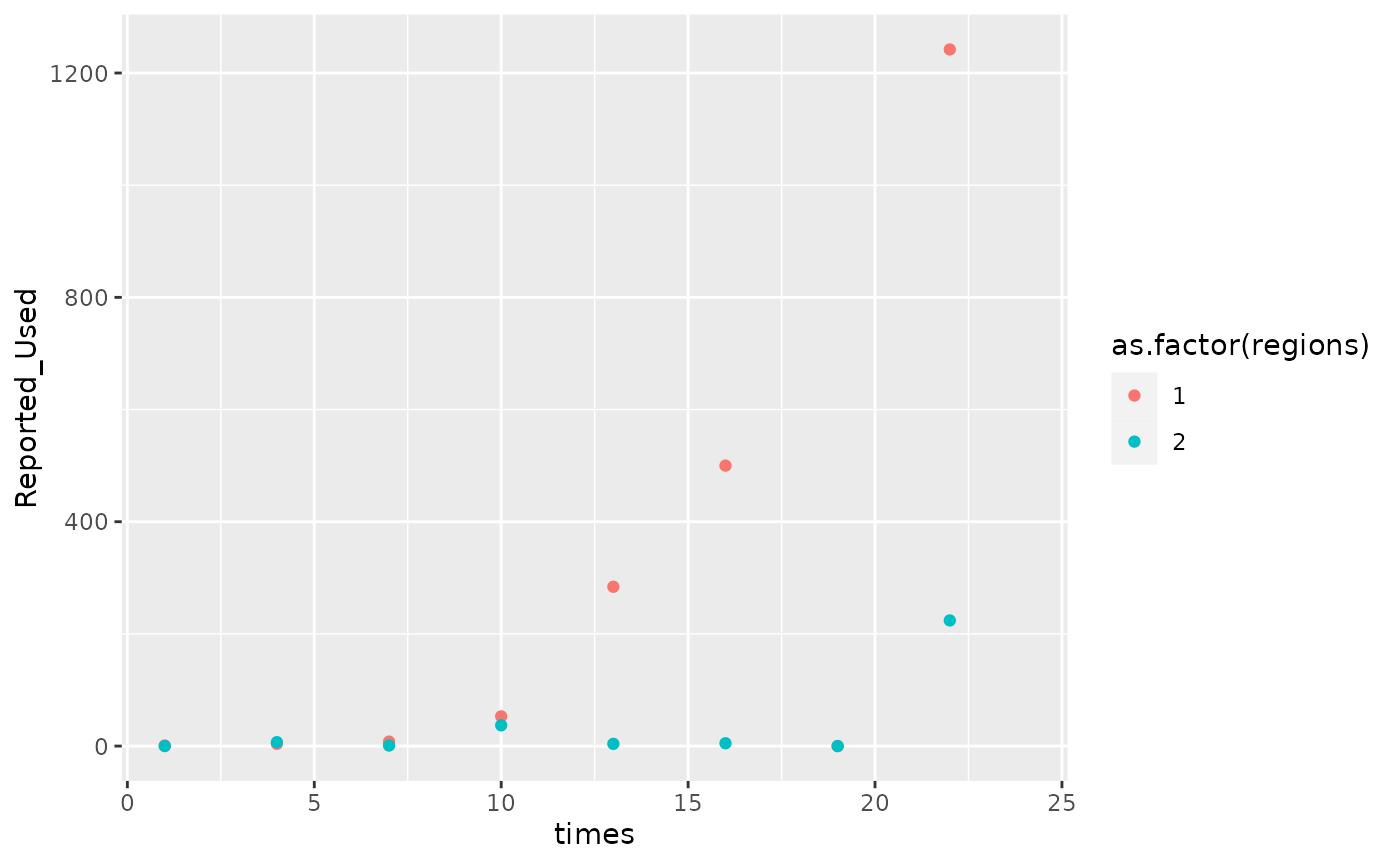
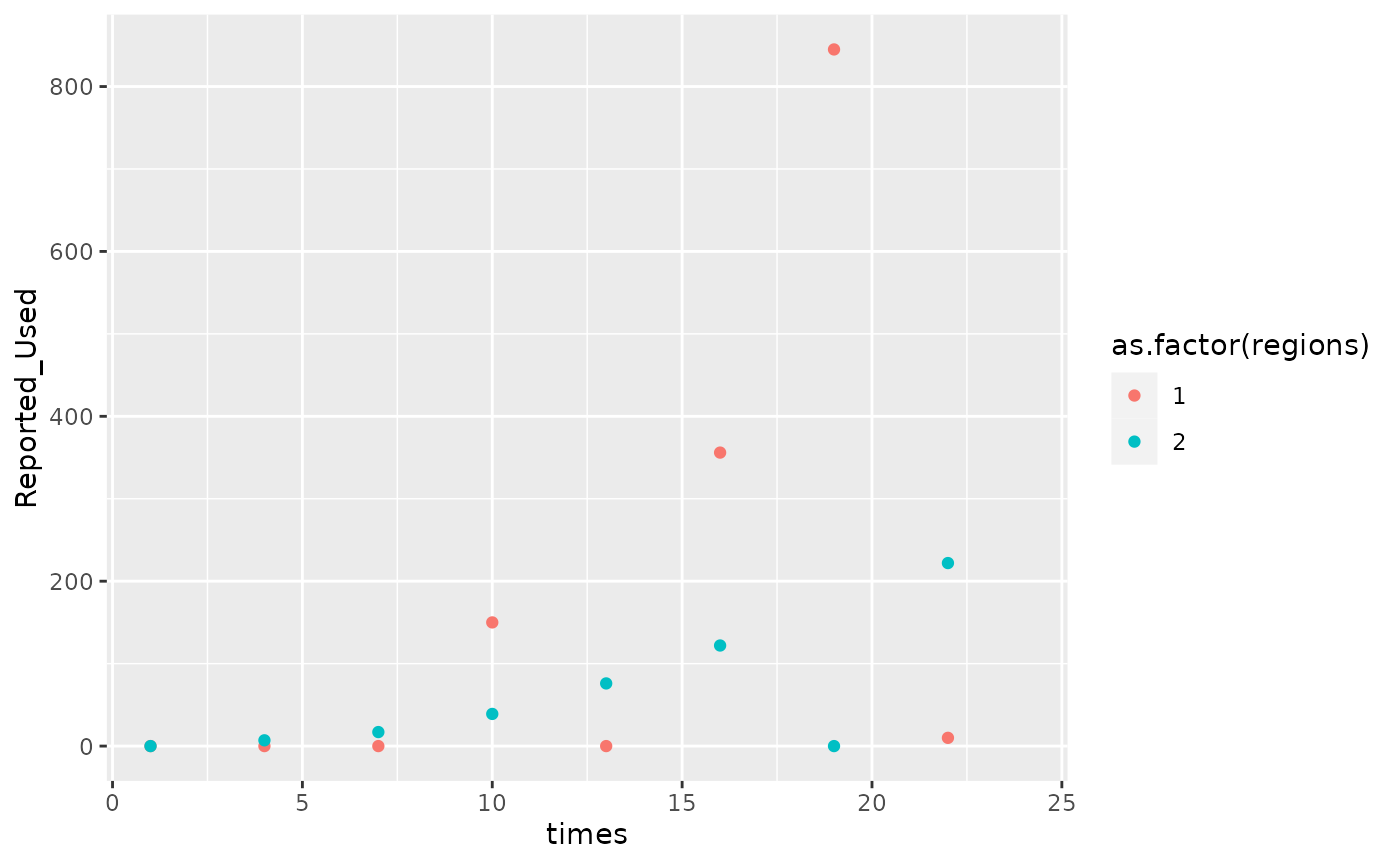
Deploying to gh-pages from @ sempwn/bennu@3d60e01dad95311d0140d820602fc17f2c6bd9ce 🚀

diff --git a/articles/Introduction.html b/articles/Introduction.html
@@ -99,7 +99,7 @@
 <code class="sourceCode R"><span><span class="kw"><a href="https://rdrr.io/r/base/library.html" class="external-link">library</a></span><span class="op">(</span><span class="va"><a href="https://mc-stan.org/rstan/" class="external-link">rstan</a></span><span class="op">)</span></span>
 <span><span class="co">#&gt; Loading required package: StanHeaders</span></span>
 <span><span class="co">#&gt; </span></span>
-<span><span class="co">#&gt; rstan version 2.26.23 (Stan version 2.26.1)</span></span>
+<span><span class="co">#&gt; rstan version 2.32.5 (Stan version 2.32.2)</span></span>
 <span><span class="co">#&gt; For execution on a local, multicore CPU with excess RAM we recommend calling</span></span>
 <span><span class="co">#&gt; options(mc.cores = parallel::detectCores()).</span></span>
 <span><span class="co">#&gt; To avoid recompilation of unchanged Stan programs, we recommend calling</span></span>
@@ -109,7 +109,7 @@
 <span><span class="co">#&gt; rstan_options(threads_per_chain = 1)</span></span>
 <span><span class="kw"><a href="https://rdrr.io/r/base/library.html" class="external-link">library</a></span><span class="op">(</span><span class="va"><a href="https://sempwn.github.io/bennu/">bennu</a></span><span class="op">)</span></span>
 <span><span class="kw"><a href="https://rdrr.io/r/base/library.html" class="external-link">library</a></span><span class="op">(</span><span class="va"><a href="https://mc-stan.org/bayesplot/" class="external-link">bayesplot</a></span><span class="op">)</span></span>
-<span><span class="co">#&gt; This is bayesplot version 1.10.0</span></span>
+<span><span class="co">#&gt; This is bayesplot version 1.11.0</span></span>
 <span><span class="co">#&gt; - Online documentation and vignettes at mc-stan.org/bayesplot</span></span>
 <span><span class="co">#&gt; - bayesplot theme set to bayesplot::theme_default()</span></span>
 <span><span class="co">#&gt;    * Does _not_ affect other ggplot2 plots</span></span>
@@ -127,7 +127,7 @@
 <span><span class="co">#&gt; <span style="color: #555555;">Call `lifecycle::last_lifecycle_warnings()` to see where this warning was</span></span></span>
 <span><span class="co">#&gt; <span style="color: #555555;">generated.</span></span></span>
 <span><span class="co"># note iter should be at least 2000 to generate a reasonable posterior sample</span></span>
-<span><span class="va">fit</span> <span class="op">&lt;-</span> <span class="fu"><a href="../reference/est_naloxone.html">est_naloxone</a></span><span class="op">(</span><span class="va">d</span>,iter<span class="op">=</span><span class="fl">100</span><span class="op">)</span></span>
+<span><span class="va">fit</span> <span class="op">&lt;-</span> <span class="fu"><a href="../reference/est_naloxone.html">est_naloxone</a></span><span class="op">(</span><span class="va">d</span>, iter <span class="op">=</span> <span class="fl">100</span><span class="op">)</span></span>
 <span><span class="co">#&gt; Warning: Specifying the `id_cols` argument by position was deprecated in tidyr 1.3.0.</span></span>
 <span><span class="co">#&gt; <span style="color: #00BBBB;">ℹ</span> Please explicitly name `id_cols`, like `id_cols = regions`.</span></span>
 <span><span class="co">#&gt; <span style="color: #00BBBB;">ℹ</span> The deprecated feature was likely used in the <span style="color: #0000BB;">bennu</span> package.</span></span>
@@ -135,7 +135,7 @@
 <span><span class="co">#&gt; <span style="color: #555555;">This warning is displayed once every 8 hours.</span></span></span>
 <span><span class="co">#&gt; <span style="color: #555555;">Call `lifecycle::last_lifecycle_warnings()` to see where this warning was</span></span></span>
 <span><span class="co">#&gt; <span style="color: #555555;">generated.</span></span></span>
-<span><span class="co">#&gt; Warning: There were 24 divergent transitions after warmup. See</span></span>
+<span><span class="co">#&gt; Warning: There were 28 divergent transitions after warmup. See</span></span>
 <span><span class="co">#&gt; https://mc-stan.org/misc/warnings.html#divergent-transitions-after-warmup</span></span>
 <span><span class="co">#&gt; to find out why this is a problem and how to eliminate them.</span></span>
 <span><span class="co">#&gt; Warning: There were 2 chains where the estimated Bayesian Fraction of Missing Information was low. See</span></span>
@@ -150,13 +150,15 @@
 <span><span class="co">#&gt; Warning: Tail Effective Samples Size (ESS) is too low, indicating posterior variances and tail quantiles may be unreliable.</span></span>
 <span><span class="co">#&gt; Running the chains for more iterations may help. See</span></span>
 <span><span class="co">#&gt; https://mc-stan.org/misc/warnings.html#tail-ess</span></span>
-<span><span class="fu"><a href="https://mc-stan.org/bayesplot/reference/MCMC-scatterplots.html" class="external-link">mcmc_pairs</a></span><span class="op">(</span><span class="va">fit</span>, pars <span class="op">=</span> <span class="fu"><a href="https://rdrr.io/r/base/c.html" class="external-link">c</a></span><span class="op">(</span><span class="st">"sigma"</span>,<span class="st">"mu0"</span>,<span class="st">"zeta"</span><span class="op">)</span>,</span>
-<span>           off_diag_args <span class="op">=</span> <span class="fu"><a href="https://rdrr.io/r/base/list.html" class="external-link">list</a></span><span class="op">(</span>size <span class="op">=</span> <span class="fl">1</span>, alpha <span class="op">=</span> <span class="fl">0.5</span><span class="op">)</span><span class="op">)</span></span></code></pre></div>
+<span><span class="fu"><a href="https://mc-stan.org/bayesplot/reference/MCMC-scatterplots.html" class="external-link">mcmc_pairs</a></span><span class="op">(</span><span class="va">fit</span>,</span>
+<span>  pars <span class="op">=</span> <span class="fu"><a href="https://rdrr.io/r/base/c.html" class="external-link">c</a></span><span class="op">(</span><span class="st">"sigma"</span>, <span class="st">"mu0"</span>, <span class="st">"zeta"</span><span class="op">)</span>,</span>
+<span>  off_diag_args <span class="op">=</span> <span class="fu"><a href="https://rdrr.io/r/base/list.html" class="external-link">list</a></span><span class="op">(</span>size <span class="op">=</span> <span class="fl">1</span>, alpha <span class="op">=</span> <span class="fl">0.5</span><span class="op">)</span></span>
+<span><span class="op">)</span></span></code></pre></div>
 <p><img src="Introduction_files/figure-html/run%20example%20model-1.png" width="700"></p>
 <p>Return median and 90th percentiles for posterior samples</p>
 <div class="sourceCode" id="cb2"><pre class="downlit sourceCode r">
 <code class="sourceCode R"><span><span class="kw"><a href="https://rdrr.io/r/base/library.html" class="external-link">library</a></span><span class="op">(</span><span class="va"><a href="https://mc-stan.org/posterior/" class="external-link">posterior</a></span><span class="op">)</span></span>
-<span><span class="co">#&gt; This is posterior version 1.4.1</span></span>
+<span><span class="co">#&gt; This is posterior version 1.5.0</span></span>
 <span><span class="co">#&gt; </span></span>
 <span><span class="co">#&gt; Attaching package: 'posterior'</span></span>
 <span><span class="co">#&gt; The following object is masked from 'package:bayesplot':</span></span>
@@ -174,33 +176,43 @@
 <span></span>
 <span><span class="fu"><a href="https://mc-stan.org/posterior/reference/draws_summary.html" class="external-link">summarise_draws</a></span><span class="op">(</span><span class="va">fit</span>, <span class="fu"><a href="https://mc-stan.org/posterior/reference/draws_summary.html" class="external-link">default_summary_measures</a></span><span class="op">(</span><span class="op">)</span><span class="op">)</span></span>
 <span><span class="co">#&gt; <span style="color: #949494;"># A tibble: 462 × 7</span></span></span>
-<span><span class="co">#&gt;    variable  mean median    sd   mad    q5    q95</span></span>
-<span><span class="co">#&gt;    <span style="color: #949494; font-style: italic;">&lt;chr&gt;</span>    <span style="color: #949494; font-style: italic;">&lt;num&gt;</span>  <span style="color: #949494; font-style: italic;">&lt;num&gt;</span> <span style="color: #949494; font-style: italic;">&lt;num&gt;</span> <span style="color: #949494; font-style: italic;">&lt;num&gt;</span> <span style="color: #949494; font-style: italic;">&lt;num&gt;</span>  <span style="color: #949494; font-style: italic;">&lt;num&gt;</span></span></span>
-<span><span class="co">#&gt; <span style="color: #BCBCBC;"> 1</span> logp[1]  -<span style="color: #BB0000;">1.37</span>  -<span style="color: #BB0000;">1.40</span> 0.503 0.526 -<span style="color: #BB0000;">2.20</span> -<span style="color: #BB0000;">0.481</span></span></span>
-<span><span class="co">#&gt; <span style="color: #BCBCBC;"> 2</span> logp[2]  -<span style="color: #BB0000;">1.37</span>  -<span style="color: #BB0000;">1.37</span> 0.434 0.429 -<span style="color: #BB0000;">2.03</span> -<span style="color: #BB0000;">0.692</span></span></span>
-<span><span class="co">#&gt; <span style="color: #BCBCBC;"> 3</span> logp[3]  -<span style="color: #BB0000;">1.38</span>  -<span style="color: #BB0000;">1.34</span> 0.322 0.326 -<span style="color: #BB0000;">1.88</span> -<span style="color: #BB0000;">0.837</span></span></span>
-<span><span class="co">#&gt; <span style="color: #BCBCBC;"> 4</span> logp[4]  -<span style="color: #BB0000;">1.43</span>  -<span style="color: #BB0000;">1.43</span> 0.247 0.249 -<span style="color: #BB0000;">1.89</span> -<span style="color: #BB0000;">1.06</span> </span></span>
-<span><span class="co">#&gt; <span style="color: #BCBCBC;"> 5</span> logp[5]  -<span style="color: #BB0000;">1.26</span>  -<span style="color: #BB0000;">1.26</span> 0.204 0.212 -<span style="color: #BB0000;">1.58</span> -<span style="color: #BB0000;">0.880</span></span></span>
-<span><span class="co">#&gt; <span style="color: #BCBCBC;"> 6</span> logp[6]  -<span style="color: #BB0000;">1.30</span>  -<span style="color: #BB0000;">1.31</span> 0.274 0.207 -<span style="color: #BB0000;">1.74</span> -<span style="color: #BB0000;">0.846</span></span></span>
-<span><span class="co">#&gt; <span style="color: #BCBCBC;"> 7</span> logp[7]  -<span style="color: #BB0000;">1.36</span>  -<span style="color: #BB0000;">1.34</span> 0.175 0.194 -<span style="color: #BB0000;">1.63</span> -<span style="color: #BB0000;">1.08</span> </span></span>
-<span><span class="co">#&gt; <span style="color: #BCBCBC;"> 8</span> logp[8]  -<span style="color: #BB0000;">1.37</span>  -<span style="color: #BB0000;">1.32</span> 0.260 0.217 -<span style="color: #BB0000;">1.83</span> -<span style="color: #BB0000;">1.03</span> </span></span>
-<span><span class="co">#&gt; <span style="color: #BCBCBC;"> 9</span> logp[9]  -<span style="color: #BB0000;">1.43</span>  -<span style="color: #BB0000;">1.43</span> 0.177 0.177 -<span style="color: #BB0000;">1.76</span> -<span style="color: #BB0000;">1.17</span> </span></span>
-<span><span class="co">#&gt; <span style="color: #BCBCBC;">10</span> logp[10] -<span style="color: #BB0000;">1.22</span>  -<span style="color: #BB0000;">1.22</span> 0.301 0.241 -<span style="color: #BB0000;">1.70</span> -<span style="color: #BB0000;">0.744</span></span></span>
+<span><span class="co">#&gt;    variable  mean median    sd    mad    q5    q95</span></span>
+<span><span class="co">#&gt;    <span style="color: #949494; font-style: italic;">&lt;chr&gt;</span>    <span style="color: #949494; font-style: italic;">&lt;dbl&gt;</span>  <span style="color: #949494; font-style: italic;">&lt;dbl&gt;</span> <span style="color: #949494; font-style: italic;">&lt;dbl&gt;</span>  <span style="color: #949494; font-style: italic;">&lt;dbl&gt;</span> <span style="color: #949494; font-style: italic;">&lt;dbl&gt;</span>  <span style="color: #949494; font-style: italic;">&lt;dbl&gt;</span></span></span>
+<span><span class="co">#&gt; <span style="color: #BCBCBC;"> 1</span> logp[1]  -<span style="color: #BB0000;">2.07</span>  -<span style="color: #BB0000;">2.07</span> 0.572 0.626  -<span style="color: #BB0000;">3.05</span> -<span style="color: #BB0000;">1.14</span> </span></span>
+<span><span class="co">#&gt; <span style="color: #BCBCBC;"> 2</span> logp[2]  -<span style="color: #BB0000;">1.99</span>  -<span style="color: #BB0000;">1.94</span> 0.516 0.526  -<span style="color: #BB0000;">2.91</span> -<span style="color: #BB0000;">1.18</span> </span></span>
+<span><span class="co">#&gt; <span style="color: #BCBCBC;"> 3</span> logp[3]  -<span style="color: #BB0000;">1.80</span>  -<span style="color: #BB0000;">1.78</span> 0.391 0.414  -<span style="color: #BB0000;">2.52</span> -<span style="color: #BB0000;">1.18</span> </span></span>
+<span><span class="co">#&gt; <span style="color: #BCBCBC;"> 4</span> logp[4]  -<span style="color: #BB0000;">1.77</span>  -<span style="color: #BB0000;">1.81</span> 0.386 0.351  -<span style="color: #BB0000;">2.41</span> -<span style="color: #BB0000;">1.18</span> </span></span>
+<span><span class="co">#&gt; <span style="color: #BCBCBC;"> 5</span> logp[5]  -<span style="color: #BB0000;">1.71</span>  -<span style="color: #BB0000;">1.72</span> 0.199 0.233  -<span style="color: #BB0000;">2.03</span> -<span style="color: #BB0000;">1.43</span> </span></span>
+<span><span class="co">#&gt; <span style="color: #BCBCBC;"> 6</span> logp[6]  -<span style="color: #BB0000;">1.34</span>  -<span style="color: #BB0000;">1.36</span> 0.144 0.151  -<span style="color: #BB0000;">1.54</span> -<span style="color: #BB0000;">1.11</span> </span></span>
+<span><span class="co">#&gt; <span style="color: #BCBCBC;"> 7</span> logp[7]  -<span style="color: #BB0000;">1.42</span>  -<span style="color: #BB0000;">1.40</span> 0.156 0.141  -<span style="color: #BB0000;">1.67</span> -<span style="color: #BB0000;">1.16</span> </span></span>
+<span><span class="co">#&gt; <span style="color: #BCBCBC;"> 8</span> logp[8]  -<span style="color: #BB0000;">1.32</span>  -<span style="color: #BB0000;">1.35</span> 0.316 0.267  -<span style="color: #BB0000;">1.80</span> -<span style="color: #BB0000;">0.715</span></span></span>
+<span><span class="co">#&gt; <span style="color: #BCBCBC;"> 9</span> logp[9]  -<span style="color: #BB0000;">1.14</span>  -<span style="color: #BB0000;">1.15</span> 0.112 0.091<span style="text-decoration: underline;">5</span> -<span style="color: #BB0000;">1.33</span> -<span style="color: #BB0000;">0.964</span></span></span>
+<span><span class="co">#&gt; <span style="color: #BCBCBC;">10</span> logp[10] -<span style="color: #BB0000;">1.10</span>  -<span style="color: #BB0000;">1.10</span> 0.111 0.118  -<span style="color: #BB0000;">1.26</span> -<span style="color: #BB0000;">0.921</span></span></span>
 <span><span class="co">#&gt; <span style="color: #949494;"># ℹ 452 more rows</span></span></span></code></pre></div>
-<p>We can compare two different model fits of the probability of prior
-kit use to simulated data using the <code>plot_kit_use</code>
-function</p>
+<p>We can plot the posterior predictive distribution of the probability
+of prior kit use and compare to simulated data using the
+<code>plot_kit_use</code> function</p>
 <div class="sourceCode" id="cb3"><pre class="downlit sourceCode r">
-<code class="sourceCode R"><span><span class="fu"><a href="../reference/plot_kit_use.html">plot_kit_use</a></span><span class="op">(</span>model <span class="op">=</span> <span class="va">fit</span>,data<span class="op">=</span><span class="va">d</span><span class="op">)</span></span></code></pre></div>
+<code class="sourceCode R"><span><span class="fu"><a href="../reference/plot_kit_use.html">plot_kit_use</a></span><span class="op">(</span>model <span class="op">=</span> <span class="va">fit</span>, data <span class="op">=</span> <span class="va">d</span><span class="op">)</span></span></code></pre></div>
 <p><img src="Introduction_files/figure-html/plot%20draws-1.png" width="700"></p>
+<p>Alternatively, if we only want to plot certain regions we can include
+that as an optional argument in the <code>plot_kit_use</code>
+function</p>
+<div class="sourceCode" id="cb4"><pre class="downlit sourceCode r">
+<code class="sourceCode R"><span><span class="fu"><a href="../reference/plot_kit_use.html">plot_kit_use</a></span><span class="op">(</span></span>
+<span>  model <span class="op">=</span> <span class="va">fit</span>, data <span class="op">=</span> <span class="va">d</span>,</span>
+<span>  regions_to_plot <span class="op">=</span> <span class="fu"><a href="https://rdrr.io/r/base/c.html" class="external-link">c</a></span><span class="op">(</span><span class="st">"2"</span><span class="op">)</span></span>
+<span><span class="op">)</span></span></code></pre></div>
+<p><img src="Introduction_files/figure-html/plot%20draws%20filter%20regions-1.png" width="700"></p>
 <p>We can compare the posterior predictive check to the prior predictive
 check by re-running the model without the likelihood by setting the
 <code>run_estimation</code> parameter to <code>FALSE</code></p>
-<div class="sourceCode" id="cb4"><pre class="downlit sourceCode r">
+<div class="sourceCode" id="cb5"><pre class="downlit sourceCode r">
 <code class="sourceCode R"><span><span class="co"># note iter should be at least 2000 to generate a reasonable posterior sample</span></span>
 <span><span class="va">prior_fit</span> <span class="op">&lt;-</span> <span class="fu"><a href="../reference/est_naloxone.html">est_naloxone</a></span><span class="op">(</span><span class="va">d</span>,</span>
-<span>                          run_estimation <span class="op">=</span> <span class="cn">FALSE</span>,</span>
-<span>                          iter<span class="op">=</span><span class="fl">100</span><span class="op">)</span></span>
+<span>  run_estimation <span class="op">=</span> <span class="cn">FALSE</span>,</span>
+<span>  iter <span class="op">=</span> <span class="fl">100</span></span>
+<span><span class="op">)</span></span>
 <span><span class="co">#&gt; Warning: There were 10 divergent transitions after warmup. See</span></span>
 <span><span class="co">#&gt; https://mc-stan.org/misc/warnings.html#divergent-transitions-after-warmup</span></span>
 <span><span class="co">#&gt; to find out why this is a problem and how to eliminate them.</span></span>
@@ -218,14 +230,16 @@ check by re-running the model without the likelihood by setting the
 <span><span class="co">#&gt; Warning: Tail Effective Samples Size (ESS) is too low, indicating posterior variances and tail quantiles may be unreliable.</span></span>
 <span><span class="co">#&gt; Running the chains for more iterations may help. See</span></span>
 <span><span class="co">#&gt; https://mc-stan.org/misc/warnings.html#tail-ess</span></span>
-<span><span class="fu"><a href="https://mc-stan.org/bayesplot/reference/MCMC-scatterplots.html" class="external-link">mcmc_pairs</a></span><span class="op">(</span><span class="va">prior_fit</span>, pars <span class="op">=</span> <span class="fu"><a href="https://rdrr.io/r/base/c.html" class="external-link">c</a></span><span class="op">(</span><span class="st">"sigma"</span>,<span class="st">"mu0"</span>,<span class="st">"zeta"</span><span class="op">)</span>,</span>
-<span>           off_diag_args <span class="op">=</span> <span class="fu"><a href="https://rdrr.io/r/base/list.html" class="external-link">list</a></span><span class="op">(</span>size <span class="op">=</span> <span class="fl">1</span>, alpha <span class="op">=</span> <span class="fl">0.5</span><span class="op">)</span><span class="op">)</span></span></code></pre></div>
+<span><span class="fu"><a href="https://mc-stan.org/bayesplot/reference/MCMC-scatterplots.html" class="external-link">mcmc_pairs</a></span><span class="op">(</span><span class="va">prior_fit</span>,</span>
+<span>  pars <span class="op">=</span> <span class="fu"><a href="https://rdrr.io/r/base/c.html" class="external-link">c</a></span><span class="op">(</span><span class="st">"sigma"</span>, <span class="st">"mu0"</span>, <span class="st">"zeta"</span><span class="op">)</span>,</span>
+<span>  off_diag_args <span class="op">=</span> <span class="fu"><a href="https://rdrr.io/r/base/list.html" class="external-link">list</a></span><span class="op">(</span>size <span class="op">=</span> <span class="fl">1</span>, alpha <span class="op">=</span> <span class="fl">0.5</span><span class="op">)</span></span>
+<span><span class="op">)</span></span></code></pre></div>
 <p><img src="Introduction_files/figure-html/run%20prior-1.png" width="700"></p>
 <p>We can compare the prior and posterior predictive distribution of the
 probability of prior kit use using the <code>plot_kit_use</code>
 function</p>
-<div class="sourceCode" id="cb5"><pre class="downlit sourceCode r">
-<code class="sourceCode R"><span><span class="fu"><a href="../reference/plot_kit_use.html">plot_kit_use</a></span><span class="op">(</span>prior <span class="op">=</span> <span class="va">prior_fit</span>,posterior <span class="op">=</span> <span class="va">fit</span>, data<span class="op">=</span><span class="va">d</span><span class="op">)</span></span></code></pre></div>
+<div class="sourceCode" id="cb6"><pre class="downlit sourceCode r">
+<code class="sourceCode R"><span><span class="fu"><a href="../reference/plot_kit_use.html">plot_kit_use</a></span><span class="op">(</span>prior <span class="op">=</span> <span class="va">prior_fit</span>, posterior <span class="op">=</span> <span class="va">fit</span>, data <span class="op">=</span> <span class="va">d</span><span class="op">)</span></span></code></pre></div>
 <p><img src="Introduction_files/figure-html/plot%20compare%20prior%20posterior-1.png" width="700"></p>
 <div class="section level2">
 <h2 id="random-walk-of-order-2-model">Random walk of order 2 model<a class="anchor" aria-label="anchor" href="#random-walk-of-order-2-model"></a>
@@ -242,16 +256,17 @@ independent second order increments,</p>
 \sim N(0,\tau^{-1}) \]</span></p>
 <p>This version of the model will produce smoother estimates of
 probability of naloxone use in time.</p>
-<div class="sourceCode" id="cb6"><pre class="downlit sourceCode r">
+<div class="sourceCode" id="cb7"><pre class="downlit sourceCode r">
 <code class="sourceCode R"><span><span class="co"># note iter should be at least 2000 to generate a reasonable posterior sample</span></span>
 <span><span class="co"># note use `rw_type` to specify order of random walk</span></span>
 <span><span class="va">rw2_fit</span> <span class="op">&lt;-</span> <span class="fu"><a href="../reference/est_naloxone.html">est_naloxone</a></span><span class="op">(</span><span class="va">d</span>,</span>
-<span>                    rw_type <span class="op">=</span> <span class="fl">2</span>,</span>
-<span>                    iter<span class="op">=</span><span class="fl">100</span><span class="op">)</span></span>
-<span><span class="co">#&gt; Warning: There were 12 divergent transitions after warmup. See</span></span>
+<span>  rw_type <span class="op">=</span> <span class="fl">2</span>,</span>
+<span>  iter <span class="op">=</span> <span class="fl">100</span></span>
+<span><span class="op">)</span></span>
+<span><span class="co">#&gt; Warning: There were 11 divergent transitions after warmup. See</span></span>
 <span><span class="co">#&gt; https://mc-stan.org/misc/warnings.html#divergent-transitions-after-warmup</span></span>
 <span><span class="co">#&gt; to find out why this is a problem and how to eliminate them.</span></span>
-<span><span class="co">#&gt; Warning: There were 1 chains where the estimated Bayesian Fraction of Missing Information was low. See</span></span>
+<span><span class="co">#&gt; Warning: There were 2 chains where the estimated Bayesian Fraction of Missing Information was low. See</span></span>
 <span><span class="co">#&gt; https://mc-stan.org/misc/warnings.html#bfmi-low</span></span>
 <span><span class="co">#&gt; Warning: Examine the pairs() plot to diagnose sampling problems</span></span>
 <span><span class="co">#&gt; Warning: The largest R-hat is NA, indicating chains have not mixed.</span></span>
@@ -263,31 +278,33 @@ probability of naloxone use in time.</p>
 <span><span class="co">#&gt; Warning: Tail Effective Samples Size (ESS) is too low, indicating posterior variances and tail quantiles may be unreliable.</span></span>
 <span><span class="co">#&gt; Running the chains for more iterations may help. See</span></span>
 <span><span class="co">#&gt; https://mc-stan.org/misc/warnings.html#tail-ess</span></span>
-<span><span class="fu"><a href="https://mc-stan.org/bayesplot/reference/MCMC-scatterplots.html" class="external-link">mcmc_pairs</a></span><span class="op">(</span><span class="va">rw2_fit</span>, pars <span class="op">=</span> <span class="fu"><a href="https://rdrr.io/r/base/c.html" class="external-link">c</a></span><span class="op">(</span><span class="st">"sigma"</span>,<span class="st">"mu0"</span>,<span class="st">"zeta"</span><span class="op">)</span>,</span>
-<span>           off_diag_args <span class="op">=</span> <span class="fu"><a href="https://rdrr.io/r/base/list.html" class="external-link">list</a></span><span class="op">(</span>size <span class="op">=</span> <span class="fl">1</span>, alpha <span class="op">=</span> <span class="fl">0.5</span><span class="op">)</span><span class="op">)</span></span></code></pre></div>
+<span><span class="fu"><a href="https://mc-stan.org/bayesplot/reference/MCMC-scatterplots.html" class="external-link">mcmc_pairs</a></span><span class="op">(</span><span class="va">rw2_fit</span>,</span>
+<span>  pars <span class="op">=</span> <span class="fu"><a href="https://rdrr.io/r/base/c.html" class="external-link">c</a></span><span class="op">(</span><span class="st">"sigma"</span>, <span class="st">"mu0"</span>, <span class="st">"zeta"</span><span class="op">)</span>,</span>
+<span>  off_diag_args <span class="op">=</span> <span class="fu"><a href="https://rdrr.io/r/base/list.html" class="external-link">list</a></span><span class="op">(</span>size <span class="op">=</span> <span class="fl">1</span>, alpha <span class="op">=</span> <span class="fl">0.5</span><span class="op">)</span></span>
+<span><span class="op">)</span></span></code></pre></div>
 <p><img src="Introduction_files/figure-html/rw%20order%202%20model-1.png" width="700"></p>
 <p>Summarize random walk order 2 model draws</p>
-<div class="sourceCode" id="cb7"><pre class="downlit sourceCode r">
+<div class="sourceCode" id="cb8"><pre class="downlit sourceCode r">
 <code class="sourceCode R"><span><span class="fu"><a href="https://mc-stan.org/posterior/reference/draws_summary.html" class="external-link">summarise_draws</a></span><span class="op">(</span><span class="va">rw2_fit</span>, <span class="fu"><a href="https://mc-stan.org/posterior/reference/draws_summary.html" class="external-link">default_convergence_measures</a></span><span class="op">(</span><span class="op">)</span><span class="op">)</span></span>
 <span><span class="co">#&gt; <span style="color: #949494;"># A tibble: 462 × 4</span></span></span>
 <span><span class="co">#&gt;    variable  rhat ess_bulk ess_tail</span></span>
-<span><span class="co">#&gt;    <span style="color: #949494; font-style: italic;">&lt;chr&gt;</span>    <span style="color: #949494; font-style: italic;">&lt;num&gt;</span>    <span style="color: #949494; font-style: italic;">&lt;num&gt;</span>    <span style="color: #949494; font-style: italic;">&lt;num&gt;</span></span></span>
-<span><span class="co">#&gt; <span style="color: #BCBCBC;"> 1</span> logp[1]   1.24     14.5     63.8</span></span>
-<span><span class="co">#&gt; <span style="color: #BCBCBC;"> 2</span> logp[2]   1.25     13.9     52.3</span></span>
-<span><span class="co">#&gt; <span style="color: #BCBCBC;"> 3</span> logp[3]   1.23     14.8     88.3</span></span>
-<span><span class="co">#&gt; <span style="color: #BCBCBC;"> 4</span> logp[4]   1.20     17.0     33.3</span></span>
-<span><span class="co">#&gt; <span style="color: #BCBCBC;"> 5</span> logp[5]   1.16     20.4     73.4</span></span>
-<span><span class="co">#&gt; <span style="color: #BCBCBC;"> 6</span> logp[6]   1.05     89.2    137. </span></span>
-<span><span class="co">#&gt; <span style="color: #BCBCBC;"> 7</span> logp[7]   1.07    177.     190. </span></span>
-<span><span class="co">#&gt; <span style="color: #BCBCBC;"> 8</span> logp[8]   1.21    160.      40.0</span></span>
-<span><span class="co">#&gt; <span style="color: #BCBCBC;"> 9</span> logp[9]   1.14     37.7     48.3</span></span>
-<span><span class="co">#&gt; <span style="color: #BCBCBC;">10</span> logp[10]  1.14    152.      70.3</span></span>
+<span><span class="co">#&gt;    <span style="color: #949494; font-style: italic;">&lt;chr&gt;</span>    <span style="color: #949494; font-style: italic;">&lt;dbl&gt;</span>    <span style="color: #949494; font-style: italic;">&lt;dbl&gt;</span>    <span style="color: #949494; font-style: italic;">&lt;dbl&gt;</span></span></span>
+<span><span class="co">#&gt; <span style="color: #BCBCBC;"> 1</span> logp[1]   1.15     21.2     30.9</span></span>
+<span><span class="co">#&gt; <span style="color: #BCBCBC;"> 2</span> logp[2]   1.21     16.1     34.8</span></span>
+<span><span class="co">#&gt; <span style="color: #BCBCBC;"> 3</span> logp[3]   1.13     22.6    122. </span></span>
+<span><span class="co">#&gt; <span style="color: #BCBCBC;"> 4</span> logp[4]   1.09     44.5     47.5</span></span>
+<span><span class="co">#&gt; <span style="color: #BCBCBC;"> 5</span> logp[5]   1.10    118.     135. </span></span>
+<span><span class="co">#&gt; <span style="color: #BCBCBC;"> 6</span> logp[6]   1.10    115.     191. </span></span>
+<span><span class="co">#&gt; <span style="color: #BCBCBC;"> 7</span> logp[7]   1.08     36.0     30.2</span></span>
+<span><span class="co">#&gt; <span style="color: #BCBCBC;"> 8</span> logp[8]   1.11    181.     158. </span></span>
+<span><span class="co">#&gt; <span style="color: #BCBCBC;"> 9</span> logp[9]   1.07     52.9    136. </span></span>
+<span><span class="co">#&gt; <span style="color: #BCBCBC;">10</span> logp[10]  1.17     22.3     21.4</span></span>
 <span><span class="co">#&gt; <span style="color: #949494;"># ℹ 452 more rows</span></span></span></code></pre></div>
 <p>We can compare two different model fits of the probability of prior
 kit use to simulated data using the <code>plot_kit_use</code>
 function</p>
-<div class="sourceCode" id="cb8"><pre class="downlit sourceCode r">
-<code class="sourceCode R"><span><span class="fu"><a href="../reference/plot_kit_use.html">plot_kit_use</a></span><span class="op">(</span>rw_1 <span class="op">=</span> <span class="va">fit</span>,rw_2 <span class="op">=</span> <span class="va">rw2_fit</span>,data<span class="op">=</span><span class="va">d</span><span class="op">)</span></span></code></pre></div>
+<div class="sourceCode" id="cb9"><pre class="downlit sourceCode r">
+<code class="sourceCode R"><span><span class="fu"><a href="../reference/plot_kit_use.html">plot_kit_use</a></span><span class="op">(</span>rw_1 <span class="op">=</span> <span class="va">fit</span>, rw_2 <span class="op">=</span> <span class="va">rw2_fit</span>, data <span class="op">=</span> <span class="va">d</span><span class="op">)</span></span></code></pre></div>
 <p><img src="Introduction_files/figure-html/plot%20draws%20comparison-1.png" width="700"></p>
 </div>
 <div class="section level2">
@@ -299,22 +316,23 @@ data and the distribution data. The model can account for these
 differences and infer the distribution during missing months. See the
 following example for generating distribution data once every three
 months</p>
-<div class="sourceCode" id="cb9"><pre class="downlit sourceCode r">
+<div class="sourceCode" id="cb10"><pre class="downlit sourceCode r">
 <code class="sourceCode R"><span><span class="co">## basic example code</span></span>
 <span><span class="va">d_missing</span> <span class="op">&lt;-</span> <span class="fu"><a href="../reference/generate_model_data.html">generate_model_data</a></span><span class="op">(</span>reporting_freq <span class="op">=</span> <span class="fl">3</span><span class="op">)</span></span>
-<span><span class="fu"><a href="https://ggplot2.tidyverse.org/reference/ggplot.html" class="external-link">ggplot</a></span><span class="op">(</span><span class="fu"><a href="https://ggplot2.tidyverse.org/reference/aes.html" class="external-link">aes</a></span><span class="op">(</span>x<span class="op">=</span><span class="va">times</span>,y<span class="op">=</span><span class="va">Reported_Used</span>,color<span class="op">=</span><span class="fu"><a href="https://rdrr.io/r/base/factor.html" class="external-link">as.factor</a></span><span class="op">(</span><span class="va">regions</span><span class="op">)</span><span class="op">)</span>,data<span class="op">=</span><span class="va">d_missing</span><span class="op">)</span> <span class="op">+</span></span>
+<span><span class="fu"><a href="https://ggplot2.tidyverse.org/reference/ggplot.html" class="external-link">ggplot</a></span><span class="op">(</span><span class="fu"><a href="https://ggplot2.tidyverse.org/reference/aes.html" class="external-link">aes</a></span><span class="op">(</span>x <span class="op">=</span> <span class="va">times</span>, y <span class="op">=</span> <span class="va">Reported_Used</span>, color <span class="op">=</span> <span class="fu"><a href="https://rdrr.io/r/base/factor.html" class="external-link">as.factor</a></span><span class="op">(</span><span class="va">regions</span><span class="op">)</span><span class="op">)</span>,</span>
+<span>  data <span class="op">=</span> <span class="va">d_missing</span></span>
+<span><span class="op">)</span> <span class="op">+</span></span>
 <span>  <span class="fu"><a href="https://ggplot2.tidyverse.org/reference/geom_point.html" class="external-link">geom_point</a></span><span class="op">(</span><span class="op">)</span></span>
 <span><span class="co">#&gt; Warning: Removed 32 rows containing missing values (`geom_point()`).</span></span></code></pre></div>
 <p><img src="Introduction_files/figure-html/data%20generation%20lower%20frequency-1.png" width="700"></p>
-<div class="sourceCode" id="cb10"><pre class="downlit sourceCode r">
+<div class="sourceCode" id="cb11"><pre class="downlit sourceCode r">
 <code class="sourceCode R"><span><span class="va">missing_fit</span> <span class="op">&lt;-</span> <span class="fu"><a href="../reference/est_naloxone.html">est_naloxone</a></span><span class="op">(</span><span class="va">d_missing</span>,</span>
-<span>                    rw_type <span class="op">=</span> <span class="fl">2</span>,</span>
-<span>                    iter<span class="op">=</span><span class="fl">100</span><span class="op">)</span></span>
-<span><span class="co">#&gt; Warning: There were 14 divergent transitions after warmup. See</span></span>
+<span>  rw_type <span class="op">=</span> <span class="fl">2</span>,</span>
+<span>  iter <span class="op">=</span> <span class="fl">100</span></span>
+<span><span class="op">)</span></span>
+<span><span class="co">#&gt; Warning: There were 10 divergent transitions after warmup. See</span></span>
 <span><span class="co">#&gt; https://mc-stan.org/misc/warnings.html#divergent-transitions-after-warmup</span></span>
 <span><span class="co">#&gt; to find out why this is a problem and how to eliminate them.</span></span>
-<span><span class="co">#&gt; Warning: There were 1 chains where the estimated Bayesian Fraction of Missing Information was low. See</span></span>
-<span><span class="co">#&gt; https://mc-stan.org/misc/warnings.html#bfmi-low</span></span>
 <span><span class="co">#&gt; Warning: Examine the pairs() plot to diagnose sampling problems</span></span>
 <span><span class="co">#&gt; Warning: The largest R-hat is NA, indicating chains have not mixed.</span></span>
 <span><span class="co">#&gt; Running the chains for more iterations may help. See</span></span>
@@ -325,11 +343,13 @@ months</p>
 <span><span class="co">#&gt; Warning: Tail Effective Samples Size (ESS) is too low, indicating posterior variances and tail quantiles may be unreliable.</span></span>
 <span><span class="co">#&gt; Running the chains for more iterations may help. See</span></span>
 <span><span class="co">#&gt; https://mc-stan.org/misc/warnings.html#tail-ess</span></span>
-<span><span class="fu"><a href="https://mc-stan.org/bayesplot/reference/MCMC-scatterplots.html" class="external-link">mcmc_pairs</a></span><span class="op">(</span><span class="va">missing_fit</span>, pars <span class="op">=</span> <span class="fu"><a href="https://rdrr.io/r/base/c.html" class="external-link">c</a></span><span class="op">(</span><span class="st">"sigma"</span>,<span class="st">"mu0"</span>,<span class="st">"zeta"</span><span class="op">)</span>,</span>
-<span>           off_diag_args <span class="op">=</span> <span class="fu"><a href="https://rdrr.io/r/base/list.html" class="external-link">list</a></span><span class="op">(</span>size <span class="op">=</span> <span class="fl">1</span>, alpha <span class="op">=</span> <span class="fl">0.5</span><span class="op">)</span><span class="op">)</span></span></code></pre></div>
+<span><span class="fu"><a href="https://mc-stan.org/bayesplot/reference/MCMC-scatterplots.html" class="external-link">mcmc_pairs</a></span><span class="op">(</span><span class="va">missing_fit</span>,</span>
+<span>  pars <span class="op">=</span> <span class="fu"><a href="https://rdrr.io/r/base/c.html" class="external-link">c</a></span><span class="op">(</span><span class="st">"sigma"</span>, <span class="st">"mu0"</span>, <span class="st">"zeta"</span><span class="op">)</span>,</span>
+<span>  off_diag_args <span class="op">=</span> <span class="fu"><a href="https://rdrr.io/r/base/list.html" class="external-link">list</a></span><span class="op">(</span>size <span class="op">=</span> <span class="fl">1</span>, alpha <span class="op">=</span> <span class="fl">0.5</span><span class="op">)</span></span>
+<span><span class="op">)</span></span></code></pre></div>
 <p><img src="Introduction_files/figure-html/missing%20data%20inference-1.png" width="700"></p>
-<div class="sourceCode" id="cb11"><pre class="downlit sourceCode r">
-<code class="sourceCode R"><span><span class="fu"><a href="../reference/plot_kit_use.html">plot_kit_use</a></span><span class="op">(</span>model <span class="op">=</span> <span class="va">missing_fit</span>, data<span class="op">=</span><span class="va">d_missing</span><span class="op">)</span></span></code></pre></div>
+<div class="sourceCode" id="cb12"><pre class="downlit sourceCode r">
+<code class="sourceCode R"><span><span class="fu"><a href="../reference/plot_kit_use.html">plot_kit_use</a></span><span class="op">(</span>model <span class="op">=</span> <span class="va">missing_fit</span>, data <span class="op">=</span> <span class="va">d_missing</span><span class="op">)</span></span></code></pre></div>
 <p><img src="Introduction_files/figure-html/plot%20draws%20with%20missing%20data-1.png" width="700"></p>
 </div>
 <div class="section level2">
@@ -352,11 +372,11 @@ be expanded into months through interpolation and normalization to
 retain its property as a probability distribution. Example code (not
 run) is shown below. Note that these distributions will need to be
 updated when considering another jurisdiction,</p>
-<div class="sourceCode" id="cb12"><pre class="downlit sourceCode r">
+<div class="sourceCode" id="cb13"><pre class="downlit sourceCode r">
 <code class="sourceCode R"><span><span class="co"># monthly reporting delay distribution</span></span>
 <span><span class="va">psi_vec</span> <span class="op">&lt;-</span> <span class="fu"><a href="https://rdrr.io/r/base/c.html" class="external-link">c</a></span><span class="op">(</span><span class="fl">0.7</span>, <span class="fl">0.2</span>, <span class="fl">0.1</span><span class="op">)</span></span>
 <span><span class="co"># convert to weeks using interpolation</span></span>
-<span><span class="va">weekly_psi_vec</span> <span class="op">&lt;-</span> <span class="fu"><a href="https://rdrr.io/r/base/rep.html" class="external-link">rep</a></span><span class="op">(</span><span class="va">psi_vec</span>,<span class="fl">4</span><span class="op">)</span> <span class="op">/</span> <span class="fu"><a href="https://rdrr.io/r/base/sum.html" class="external-link">sum</a></span><span class="op">(</span><span class="va">psi_vec</span><span class="op">)</span></span>
+<span><span class="va">weekly_psi_vec</span> <span class="op">&lt;-</span> <span class="fu"><a href="https://rdrr.io/r/base/rep.html" class="external-link">rep</a></span><span class="op">(</span><span class="va">psi_vec</span>, <span class="fl">4</span><span class="op">)</span> <span class="op">/</span> <span class="fu"><a href="https://rdrr.io/r/base/sum.html" class="external-link">sum</a></span><span class="op">(</span><span class="va">psi_vec</span><span class="op">)</span></span>
 <span></span>
 <span><span class="co"># properties of order to distributed delay distribution in months</span></span>
 <span><span class="va">max_delays</span> <span class="op">&lt;-</span> <span class="fl">3</span></span>
@@ -364,15 +384,16 @@ updated when considering another jurisdiction,</p>
 <span><span class="va">delay_beta</span> <span class="op">&lt;-</span> <span class="fl">1</span></span>
 <span></span>
 <span><span class="co"># convert to weeks</span></span>
-<span><span class="va">weekly_max_delays</span> <span class="op">&lt;-</span> <span class="va">max_delays</span><span class="op">*</span><span class="fl">4</span></span>
+<span><span class="va">weekly_max_delays</span> <span class="op">&lt;-</span> <span class="va">max_delays</span> <span class="op">*</span> <span class="fl">4</span></span>
 <span><span class="va">weekly_delay_alpha</span> <span class="op">&lt;-</span> <span class="va">delay_alpha</span></span>
-<span><span class="va">weekly_delay_beta</span> <span class="op">&lt;-</span> <span class="fl">0.25</span> <span class="op">*</span> <span class="va">delay_beta</span> </span>
+<span><span class="va">weekly_delay_beta</span> <span class="op">&lt;-</span> <span class="fl">0.25</span> <span class="op">*</span> <span class="va">delay_beta</span></span>
 <span></span>
 <span><span class="va">result</span> <span class="op">&lt;-</span> <span class="fu"><a href="../reference/est_naloxone.html">est_naloxone</a></span><span class="op">(</span><span class="va">d</span>,</span>
-<span> psi_vec <span class="op">=</span> <span class="va">weekly_psi_vec</span>,</span>
-<span> max_delays <span class="op">=</span> <span class="va">weekly_max_delays</span>,</span>
-<span> delay_alpha <span class="op">=</span> <span class="va">weekly_delay_alpha</span>,</span>
-<span> delay_beta <span class="op">=</span> <span class="va">weekly_delay_beta</span><span class="op">)</span></span></code></pre></div>
+<span>  psi_vec <span class="op">=</span> <span class="va">weekly_psi_vec</span>,</span>
+<span>  max_delays <span class="op">=</span> <span class="va">weekly_max_delays</span>,</span>
+<span>  delay_alpha <span class="op">=</span> <span class="va">weekly_delay_alpha</span>,</span>
+<span>  delay_beta <span class="op">=</span> <span class="va">weekly_delay_beta</span></span>
+<span><span class="op">)</span></span></code></pre></div>
 </div>
   </div>
 

diff --git a/reference/plot_kit_use.html b/reference/plot_kit_use.html
@@ -69,7 +69,7 @@ For more details see the introduction vignette:
     </div>
 
     <div id="ref-usage">
-    <div class="sourceCode"><pre class="sourceCode r"><code><span><span class="fu">plot_kit_use</span><span class="op">(</span><span class="va">...</span>, data <span class="op">=</span> <span class="cn">NULL</span><span class="op">)</span></span></code></pre></div>
+    <div class="sourceCode"><pre class="sourceCode r"><code><span><span class="fu">plot_kit_use</span><span class="op">(</span><span class="va">...</span>, data <span class="op">=</span> <span class="cn">NULL</span>, regions_to_plot <span class="op">=</span> <span class="cn">NULL</span><span class="op">)</span></span></code></pre></div>
     </div>
 
     <div id="arguments">
@@ -81,6 +81,11 @@ For more details see the introduction vignette:
 <dt>data</dt>
 <dd><p>data used for model fitting. Can also include <code>p_use</code> column
 which can be used to plot true values if derived from simulated data.</p></dd>
+
+
+<dt>regions_to_plot</dt>
+<dd><p>Optional list to filter which regions are
+plotted</p></dd>
 
 </dl></div>
     <div id="value">

diff --git a/authors.html b/authors.html
@@ -79,14 +79,14 @@
     </div>
 
 
-    <p>Irvine M (2023).
+    <p>Irvine M (2024).
 <em>bennu: Bayesian Estimation of Naloxone Kit Number Under-Reporting</em>.
 R package version 0.3.0.9000, <a href="https://sempwn.github.io/bennu/">https://sempwn.github.io/bennu/</a>. 
 </p>
     <pre>@Manual{,
   title = {bennu: Bayesian Estimation of Naloxone Kit Number Under-Reporting},
   author = {Mike Irvine},
-  year = {2023},
+  year = {2024},
   note = {R package version 0.3.0.9000},
   url = {https://sempwn.github.io/bennu/},
 }</pre>
